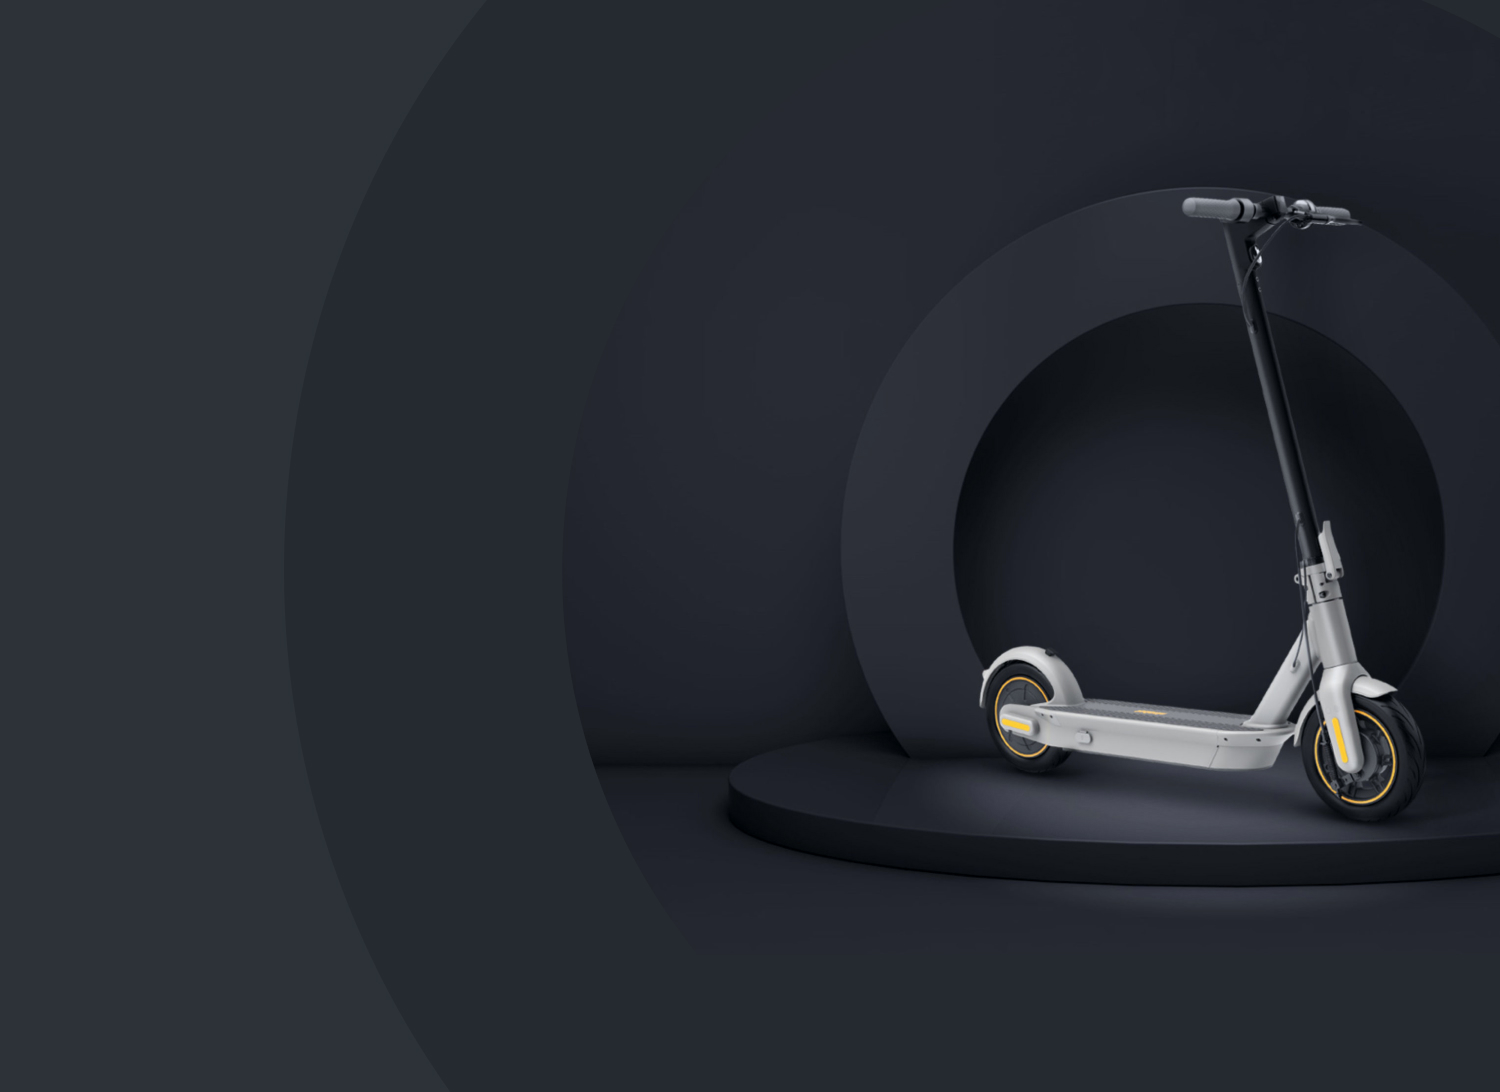
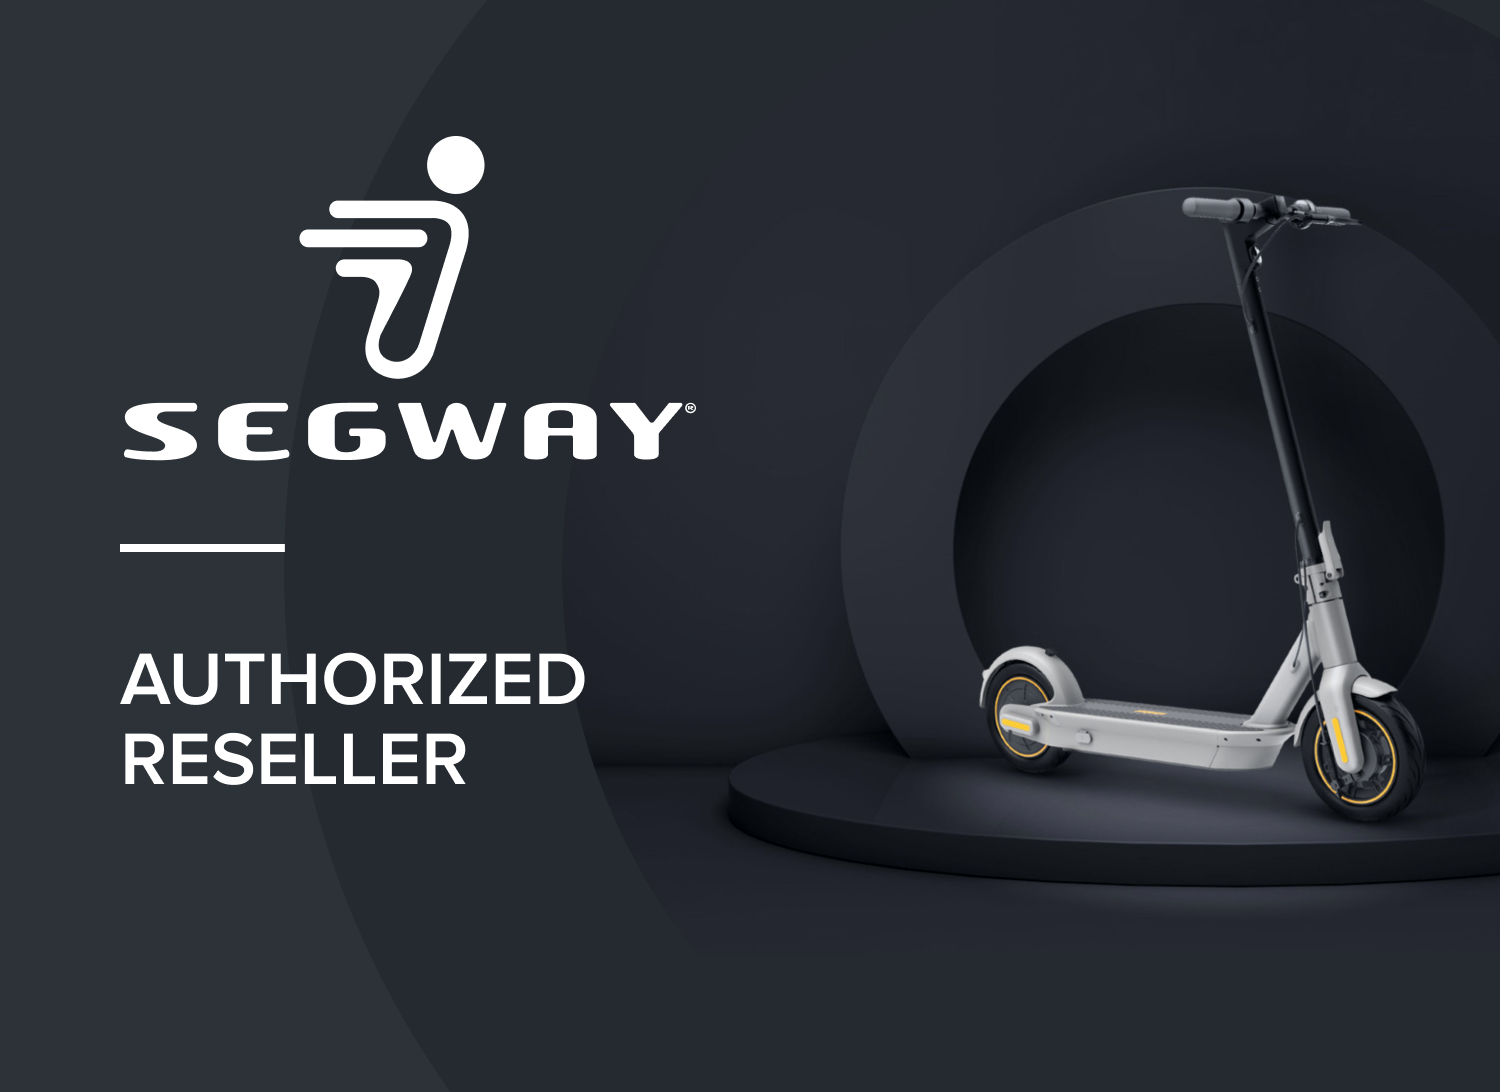
Добавил баннеры. Вернул автоплей для баннеров.

Changed region(s): [[0.0613, 0.1245, 0.46, 0.4359], [0.0613, 0.5916, 0.3987, 0.7161], [0.092, 0.4982, 0.184, 0.5293]]

diff --git a/components/sections/MainModelSlider/index.js b/components/sections/MainModelSlider/index.js
@@ -1,16 +1,15 @@
 import Image from "next/image";
 import { Swiper, SwiperSlide } from 'swiper/react';
-import { Navigation, Pagination } from 'swiper';
-import {useMediaQuery} from '@/hooks/useMediaQuery';
+import { Navigation, Pagination, Autoplay } from 'swiper';
+import { useMediaQuery } from '@/hooks/useMediaQuery';
 
 import arrowLeft from '@/base/icon-arrow-left.svg';
 import arrowRight from '@/base/icon-arrow-right.svg';
 
-import mainModelSliderLogo from '@/base/main-model-slider-logo.svg';
-
 import 'swiper/css';
 import 'swiper/css/navigation';
 import 'swiper/css/pagination';
+import 'swiper/css/autoplay';
 
 const images = [
   {
@@ -20,18 +19,18 @@ const images = [
   },
   {
     id: 1,
-    src: '/main-model-slider-1.jpg',
-    srcSmall: '/main-model-slider-1-sm.jpg'
+    src: '/main-model-slider-2.jpg',
+    srcSmall: '/main-model-slider-2-sm.jpg'
   },
   {
     id: 2,
-    src: '/main-model-slider-1.jpg',
-    srcSmall: '/main-model-slider-1-sm.jpg'
+    src: '/main-model-slider-3.jpg',
+    srcSmall: '/main-model-slider-3-sm.jpg'
   },
   {
     id: 3,
-    src: '/main-model-slider-1.jpg',
-    srcSmall: '/main-model-slider-1-sm.jpg'
+    src: '/main-model-slider-4.jpg',
+    srcSmall: '/main-model-slider-4-sm.jpg'
   },
 ]
 
@@ -44,12 +43,15 @@ export default function MainModelSlider() {
       <div className="main-model-slider__container">
 
         <Swiper
-          modules={[Navigation, Pagination]}
+          modules={[Navigation, Pagination, Autoplay]}
           className="main-model-slider__slider"
           spaceBetween={0}
           slidesPerView={1}
           speed={600}
           loop={true}
+          autoplay={{
+            delay: 5000
+          }}
           navigation={{
             prevEl: '.main-model-slider__nav_left',
             nextEl: '.main-model-slider__nav_right'
@@ -66,7 +68,7 @@ export default function MainModelSlider() {
                   src={!mediaQuery ? src : srcSmall}
                   quality={100}
                   width={1376}
-                  height={391}
+                  height={388}
                   objectFit="cover"
                   className="main-model-slider__image"
                   alt="Segway image in slider"
@@ -87,12 +89,13 @@ export default function MainModelSlider() {
           </div>
         </div>
 
-        <div className="container main-model-slider__content">
+        {/* Контент для картинок */}
+        {/* <div className="container main-model-slider__content">
           <div className="main-model-slider__content-logo">
             <Image src={mainModelSliderLogo} alt="Main model slider logo" />
           </div>
           <p className="main-model-slider__content-text">Authorized <br /> reseller</p>
-        </div>
+        </div> */}
 
         <div className="main-model-slider__pagination"></div>
 

diff --git a/store/slices/elementInViewSlice.js b/store/slices/elementInViewSlice.js
@@ -25,13 +25,6 @@ export const elementInViewSlice = createSlice({
     },
     setCustomSlider: (state, action) => {
       const { sliderName, payload } = action.payload;
-      // state.otherSliders[sliderName] = payload
-      // console.log('sliderName: ', sliderName);
-      // console.log('payload: ', payload);
-      // console.log(console.log());
-      // const newState = state.otherSliders;
-      // const newEntity = { ...state.otherSliders, sliderName: payload }
-
       /**
        * Проверяем ключ.
        *  Если есть, то обновляем значение

diff --git a/components/sections/CategorySlider/index.js b/components/sections/CategorySlider/index.js
@@ -23,7 +23,11 @@ export default function CategorySlider({ customClassNames, title, products, type
   const { otherSliders } = useSelector(state => state.elementInView)
 
   useEffect(() => {
-    if (otherSliders[keySlider] === undefined) {
+    try {
+      if (otherSliders[keySlider] === undefined) {
+        dispatch(setCustomSlider({ sliderName: keySlider, payload: true }))
+      }
+    } catch (error) {
       dispatch(setCustomSlider({ sliderName: keySlider, payload: true }))
     }
   }, [otherSliders, keySlider, dispatch])

diff --git a/components/sections/MainModelSlider/index.scss b/components/sections/MainModelSlider/index.scss
@@ -7,8 +7,16 @@
   }
 
   &__slide {
-    min-height: 391px;
     aspect-ratio: 16 / 4.52;
+    @supports not (aspect-ratio: 16 / 4.52) {
+      min-height: 391px;
+    }
+    @include media('<=991px') {
+      aspect-ratio: 16 / 11.66;
+      @supports not (aspect-ratio: 16 / 11.66) {
+        min-height: 450px;
+      }
+    }
     @include media('<=576px') {
       min-height: 273px;
     }

diff --git a/store/store.js b/store/store.js
@@ -28,7 +28,7 @@ import topSwiperSlice from './slices/topSwiperSlice'
 
 const persistConfig = {
   key: 'root',
-  version: 1,
+  version: 0.1,
   storage,
   blacklist: ['differentBilling', 'productModal', 'discountModalSlice']
 }
